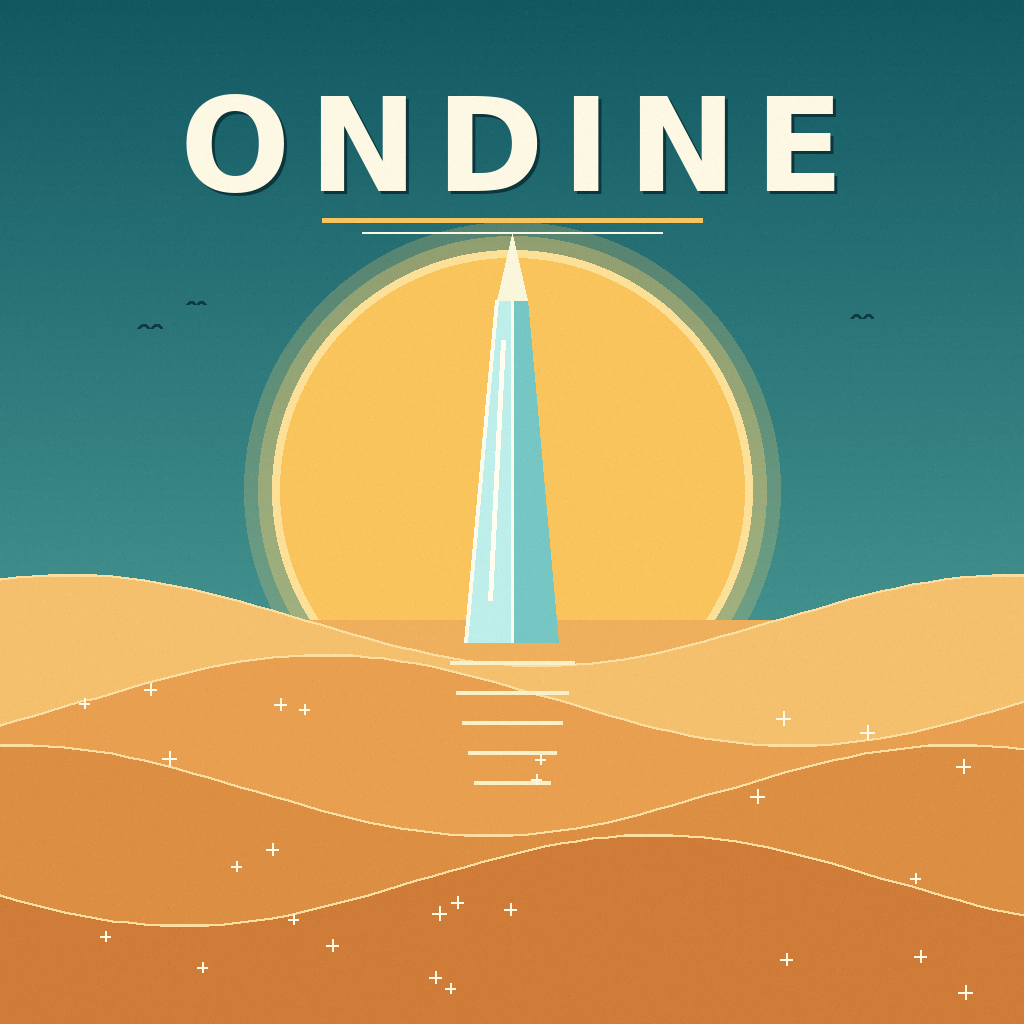
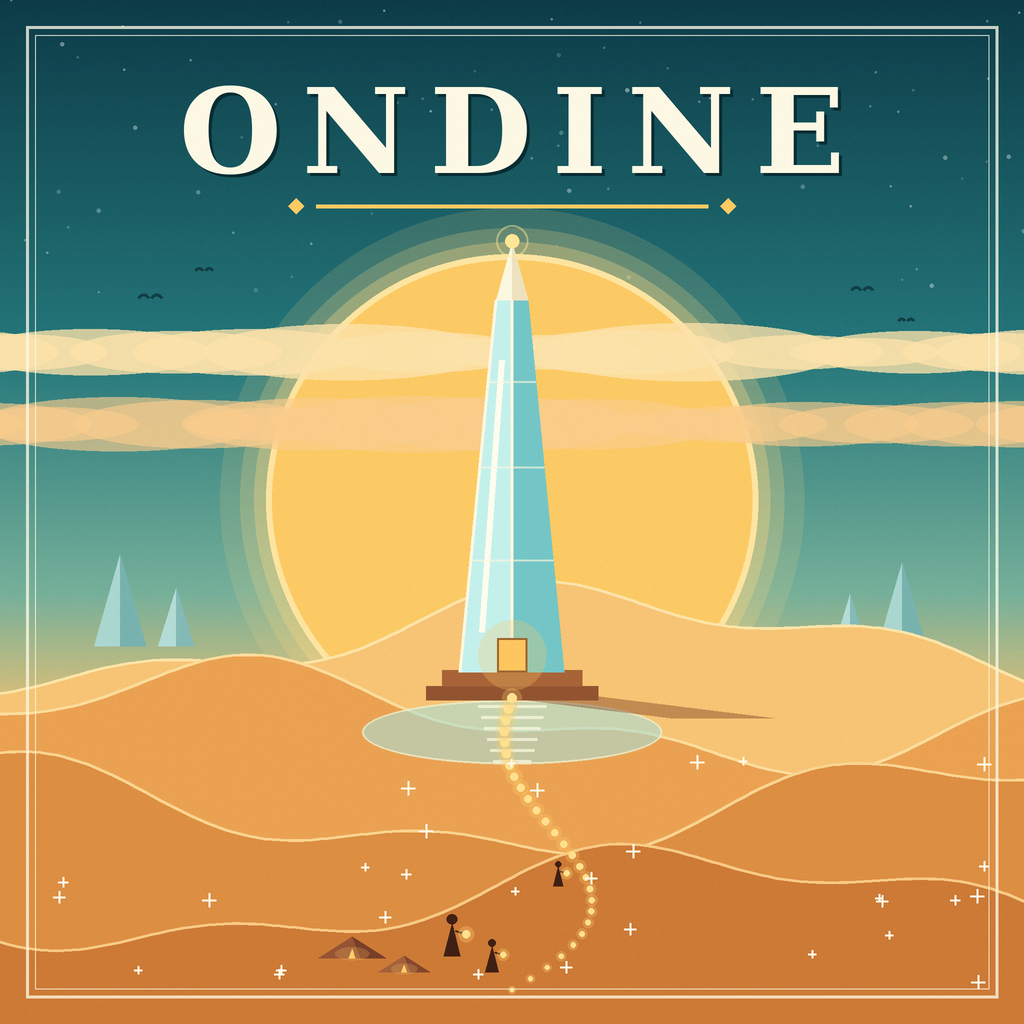
Improvement round: richer ONDINE poster (mirror pool, lantern path, lit camp, shard spires, serif display type)

diff --git a/README.md b/README.md
@@ -3,14 +3,18 @@
 [![make.fun · the-poster-for-a-place-that-i-2-20261121-0539](https://make.fun/badge/the-poster-for-a-place-that-i-2-20261121-0539.svg)](https://make.fun/bounty/the-poster-for-a-place-that-i-2-20261121-0539?utm_source=github&utm_medium=readme&utm_campaign=the-poster-for-a-place-that-i-2-20261121-0539)
 
 A travel poster for ONDINE, a glass-desert destination that does not
-exist: a mirrored obelisk under a huge low sun, above sparkling glass
-dunes. The place name is the only copy on the poster, per the brief.
+exist: a faceted mirrored obelisk with a lit doorway under a huge low
+sun, a mirror pool at its base, glass shard spires on the horizon, and
+a lantern path winding past a tiny lit camp toward the door. The place
+name is the only copy on the poster, per the brief.
 
 `main.py` (Python 3.13, standard library only) validates the committed
 `entry.png` (whole PNG, 1024×1024, ≤1 MiB) and copies it to
 `/output/entry.png` with mode 0644. The poster was drawn by
 `candidates/generate_posters.py` + `candidates/refine_posters.py`
-(six candidates, then a refined pass on the two finalists); see
-`JUDGE-SCORECARD.md` for the criterion-by-criterion pick.
+(six candidates, then a refined pass on the two finalists), then
+upgraded in an improvement round by `candidates/improve_posters.py` +
+`candidates/refine2_posters.py`; see `JUDGE-SCORECARD.md` for the
+criterion-by-criterion pick.
 
 Run locally: `mkdir -p out && MAKEFUN_OUTPUT_DIR=out python3 main.py`

diff --git a/JUDGE-SCORECARD.md b/JUDGE-SCORECARD.md
@@ -31,3 +31,20 @@ Scores 0–2 per criterion, judged in brief order (lexicographic, not averaged).
 
 300px downscale check: passed (name, obelisk, sun, dunes all instantly clear).
 File: 416,283 bytes, 1024×1024 PNG — inside the 1 MiB gate.
+
+## Improvement round (rank 342/610 → resubmit)
+
+The flat v1 poster read as generic at judging size. Three richer
+candidates (`candidates/improve_posters.py`), then one refinement
+(`candidates/refine2_posters.py`):
+
+| Candidate | 1 On-brief+name | 2 Want to go | 3 Distinct identity | 4 Type | 5 Colour/composition | Verdict |
+|---|---|---|---|---|---|---|
+| C10 golden v1 | 2 | 2 — warm sun, lantern path, travellers | 2 — mirror pool, lit door | 2 — serif display | 1 — mesas read as houses, clouds caterpillar-like | Refined |
+| C11 dusk | 2 | 1 — moody, less warmth | 2 — glowing path at dusk | 2 | 2 | Runner-up |
+| C12 dawn | 2 | 1 — washed out, low contrast | 1 — pale = generic | 2 | 1 | Out |
+| C13 golden v2 | 2 | 2 — sun + lit camp + lantern path = stay promise | 2 — glass shard spires echo the obelisk, mirror pool, lit doorway | 2 — letterspaced serif, diamond rules, poster frame | 2 — name → sun → obelisk → pool → path → camp | **WINNER** |
+
+Final bytes = `candidate-13-ondine-golden-v2.png` (803,394 bytes,
+1024×1024). 300px check (`check-300px-v2.png`): name, sun, obelisk,
+pool and path all instantly clear.
